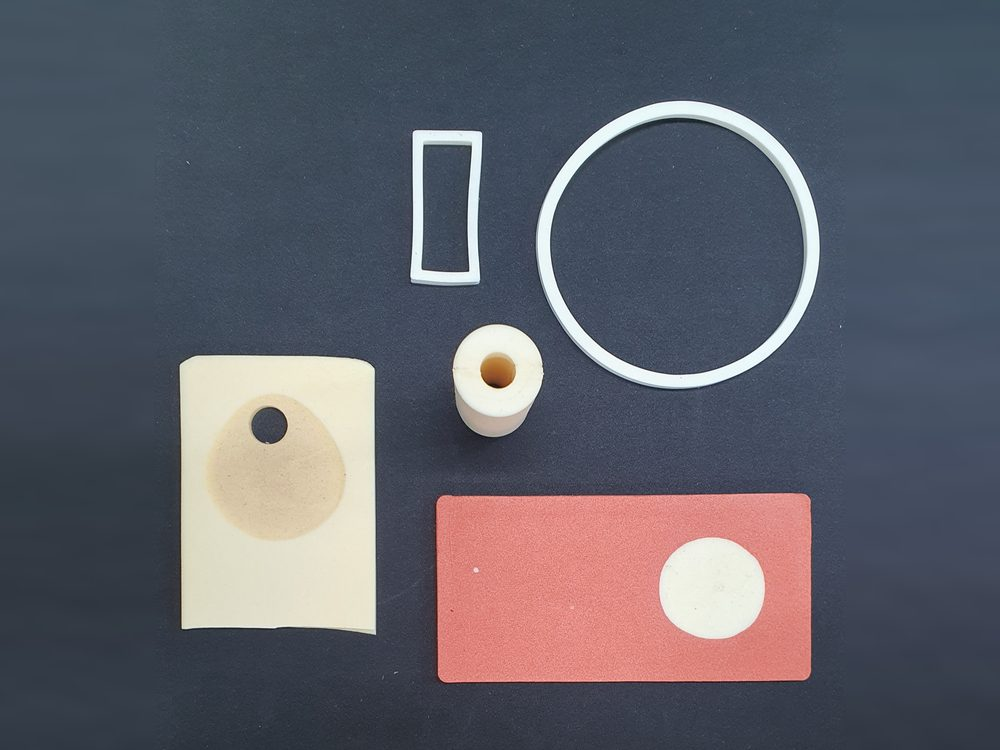
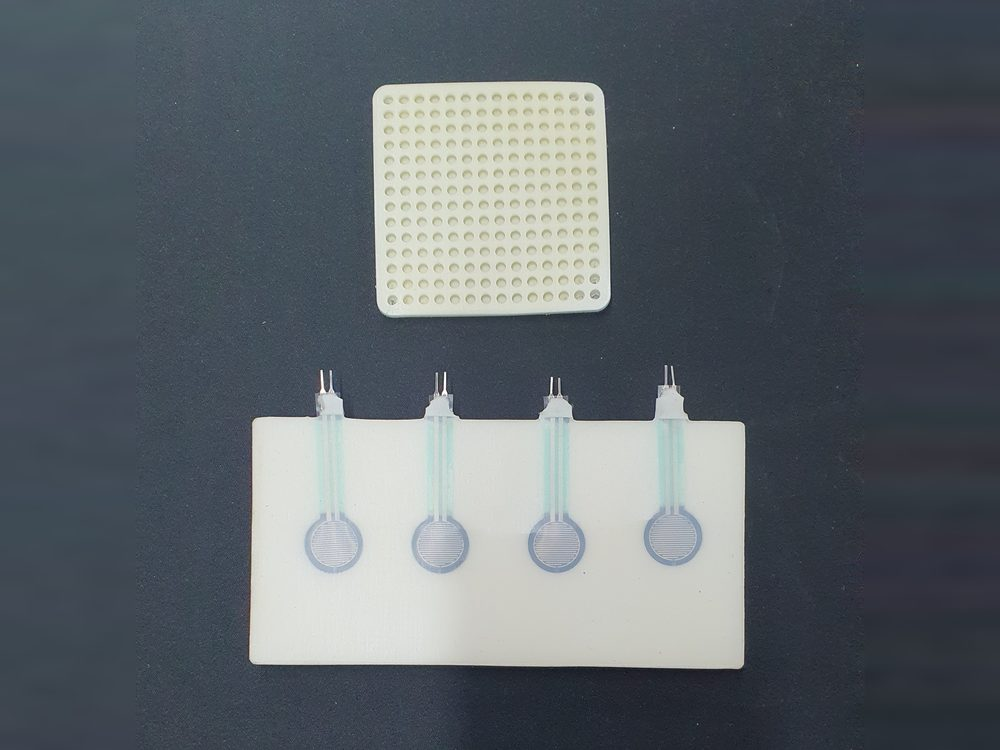
메인 실리셀폼 사진을 다층레이어 작업 사진으로 교체
Claude-Session: https://claude.ai/code/session_018a8CpELxZitrgWJWgpFQ97

diff --git a/pages/main.html b/pages/main.html
@@ -1,5 +1,5 @@
 <!-- 선우특수소재 · 메인 (/) — 아임웹 코드 위젯에 전체 붙여넣기. 디자인은 공통 head 코드(sw.css)에서 불러옴. 방문자 화면은 sw.js가 최신본으로 자동 교체 -->
-<div data-page="main" data-v="8bc7e87941" class="sw sw-pg sw-main">
+<div data-page="main" data-v="47acfc58a1" class="sw sw-pg sw-main">
 
   <section class="sw-mhero">
     <div class="sw-inner">
@@ -55,7 +55,7 @@
       <h2 class="sw-h2">개발하고, 양산까지 이어 온 일들</h2>
       <div class="sw-proof">
         <div class="sw-silicell" style="background:#fff">
-          <img src="https://drawdream89-oss.github.io/sunwoo-web/img/main-silicell.jpg" alt="실리셀폼으로 형상 가공한 링·프레임·패드 샘플" width="1000" height="750" loading="lazy">
+          <img src="https://drawdream89-oss.github.io/sunwoo-web/img/main-silicell.jpg" alt="실리셀폼 격자형 패드와 센서를 넣어 적층한 다층구조 시트" width="1000" height="750" loading="lazy">
           <h3>자체 개발 소재, 실리셀폼</h3>
           <p>경도와 발포율, 두께를 조절해 원하는 형태로 만드는 발포 실리콘입니다. 로봇 외피용 다층구조체 과제에 적용했고, 2026년 상표를 등록했습니다.</p>
           <ul class="sw-chips"><li style="background:var(--sw-tint)">미세기공 발포</li><li style="background:var(--sw-tint)">저경도</li><li style="background:var(--sw-tint)">반복 압축 후 형상 회복</li><li style="background:var(--sw-tint)">일반 실리콘과 적층</li></ul>
